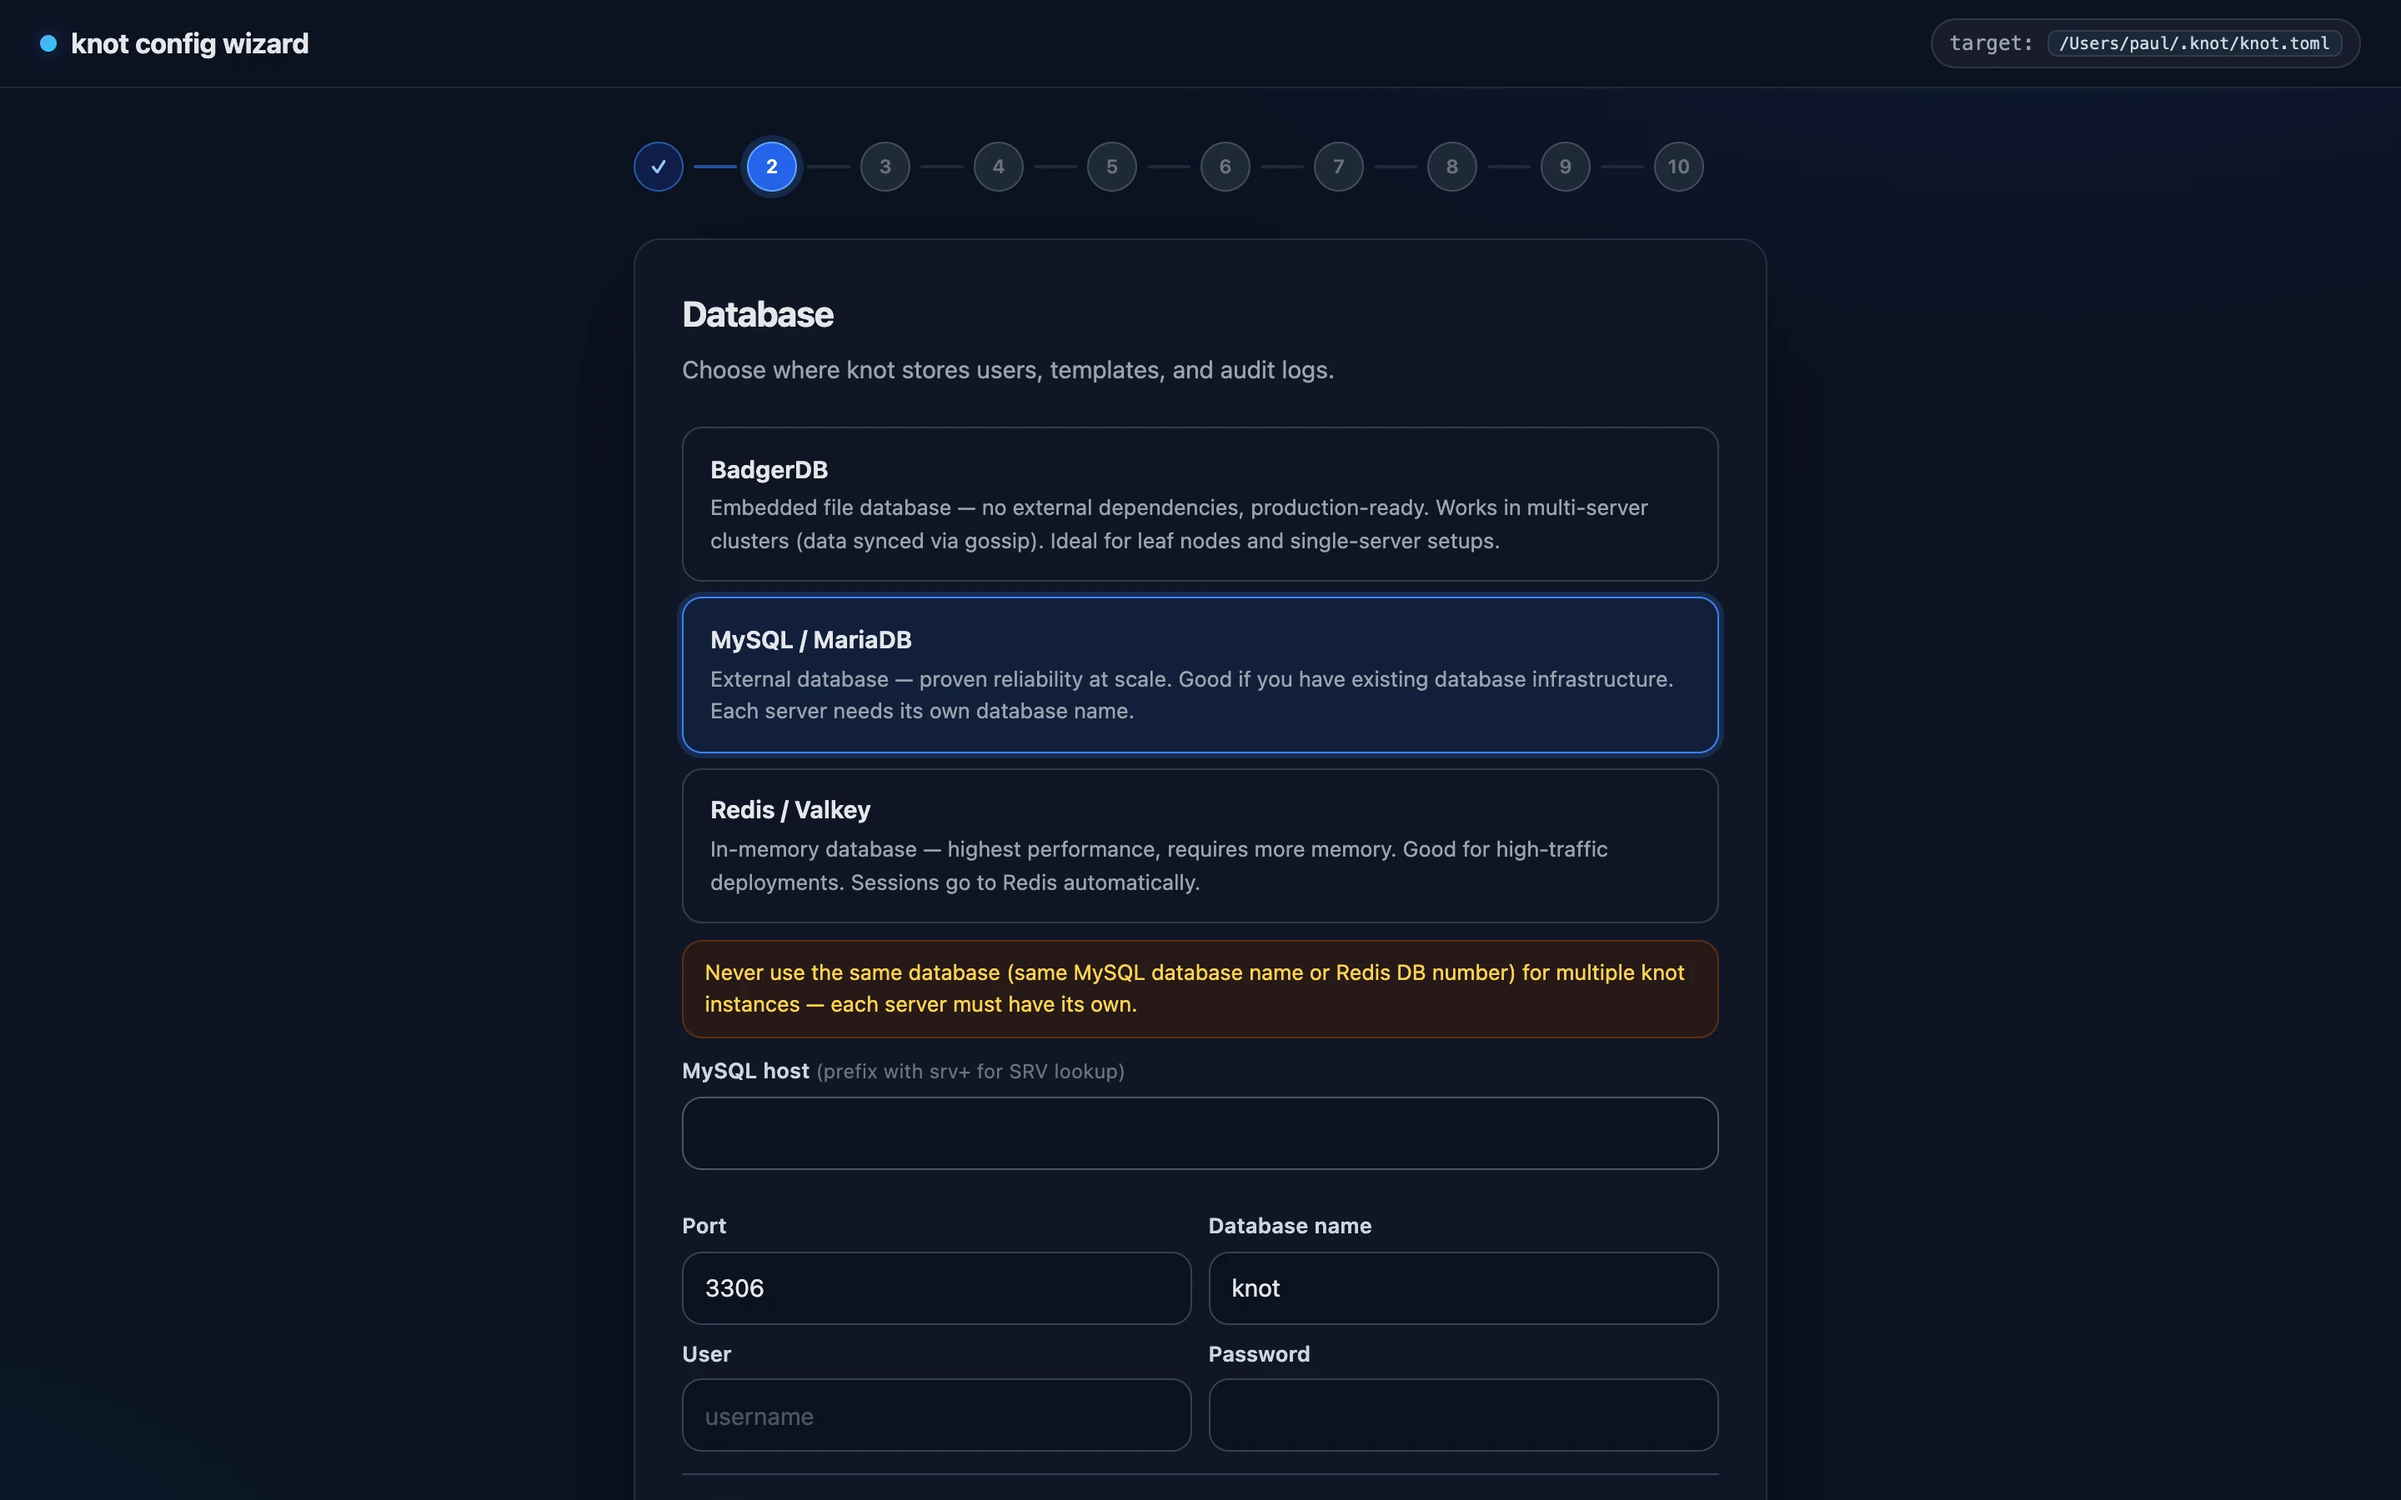
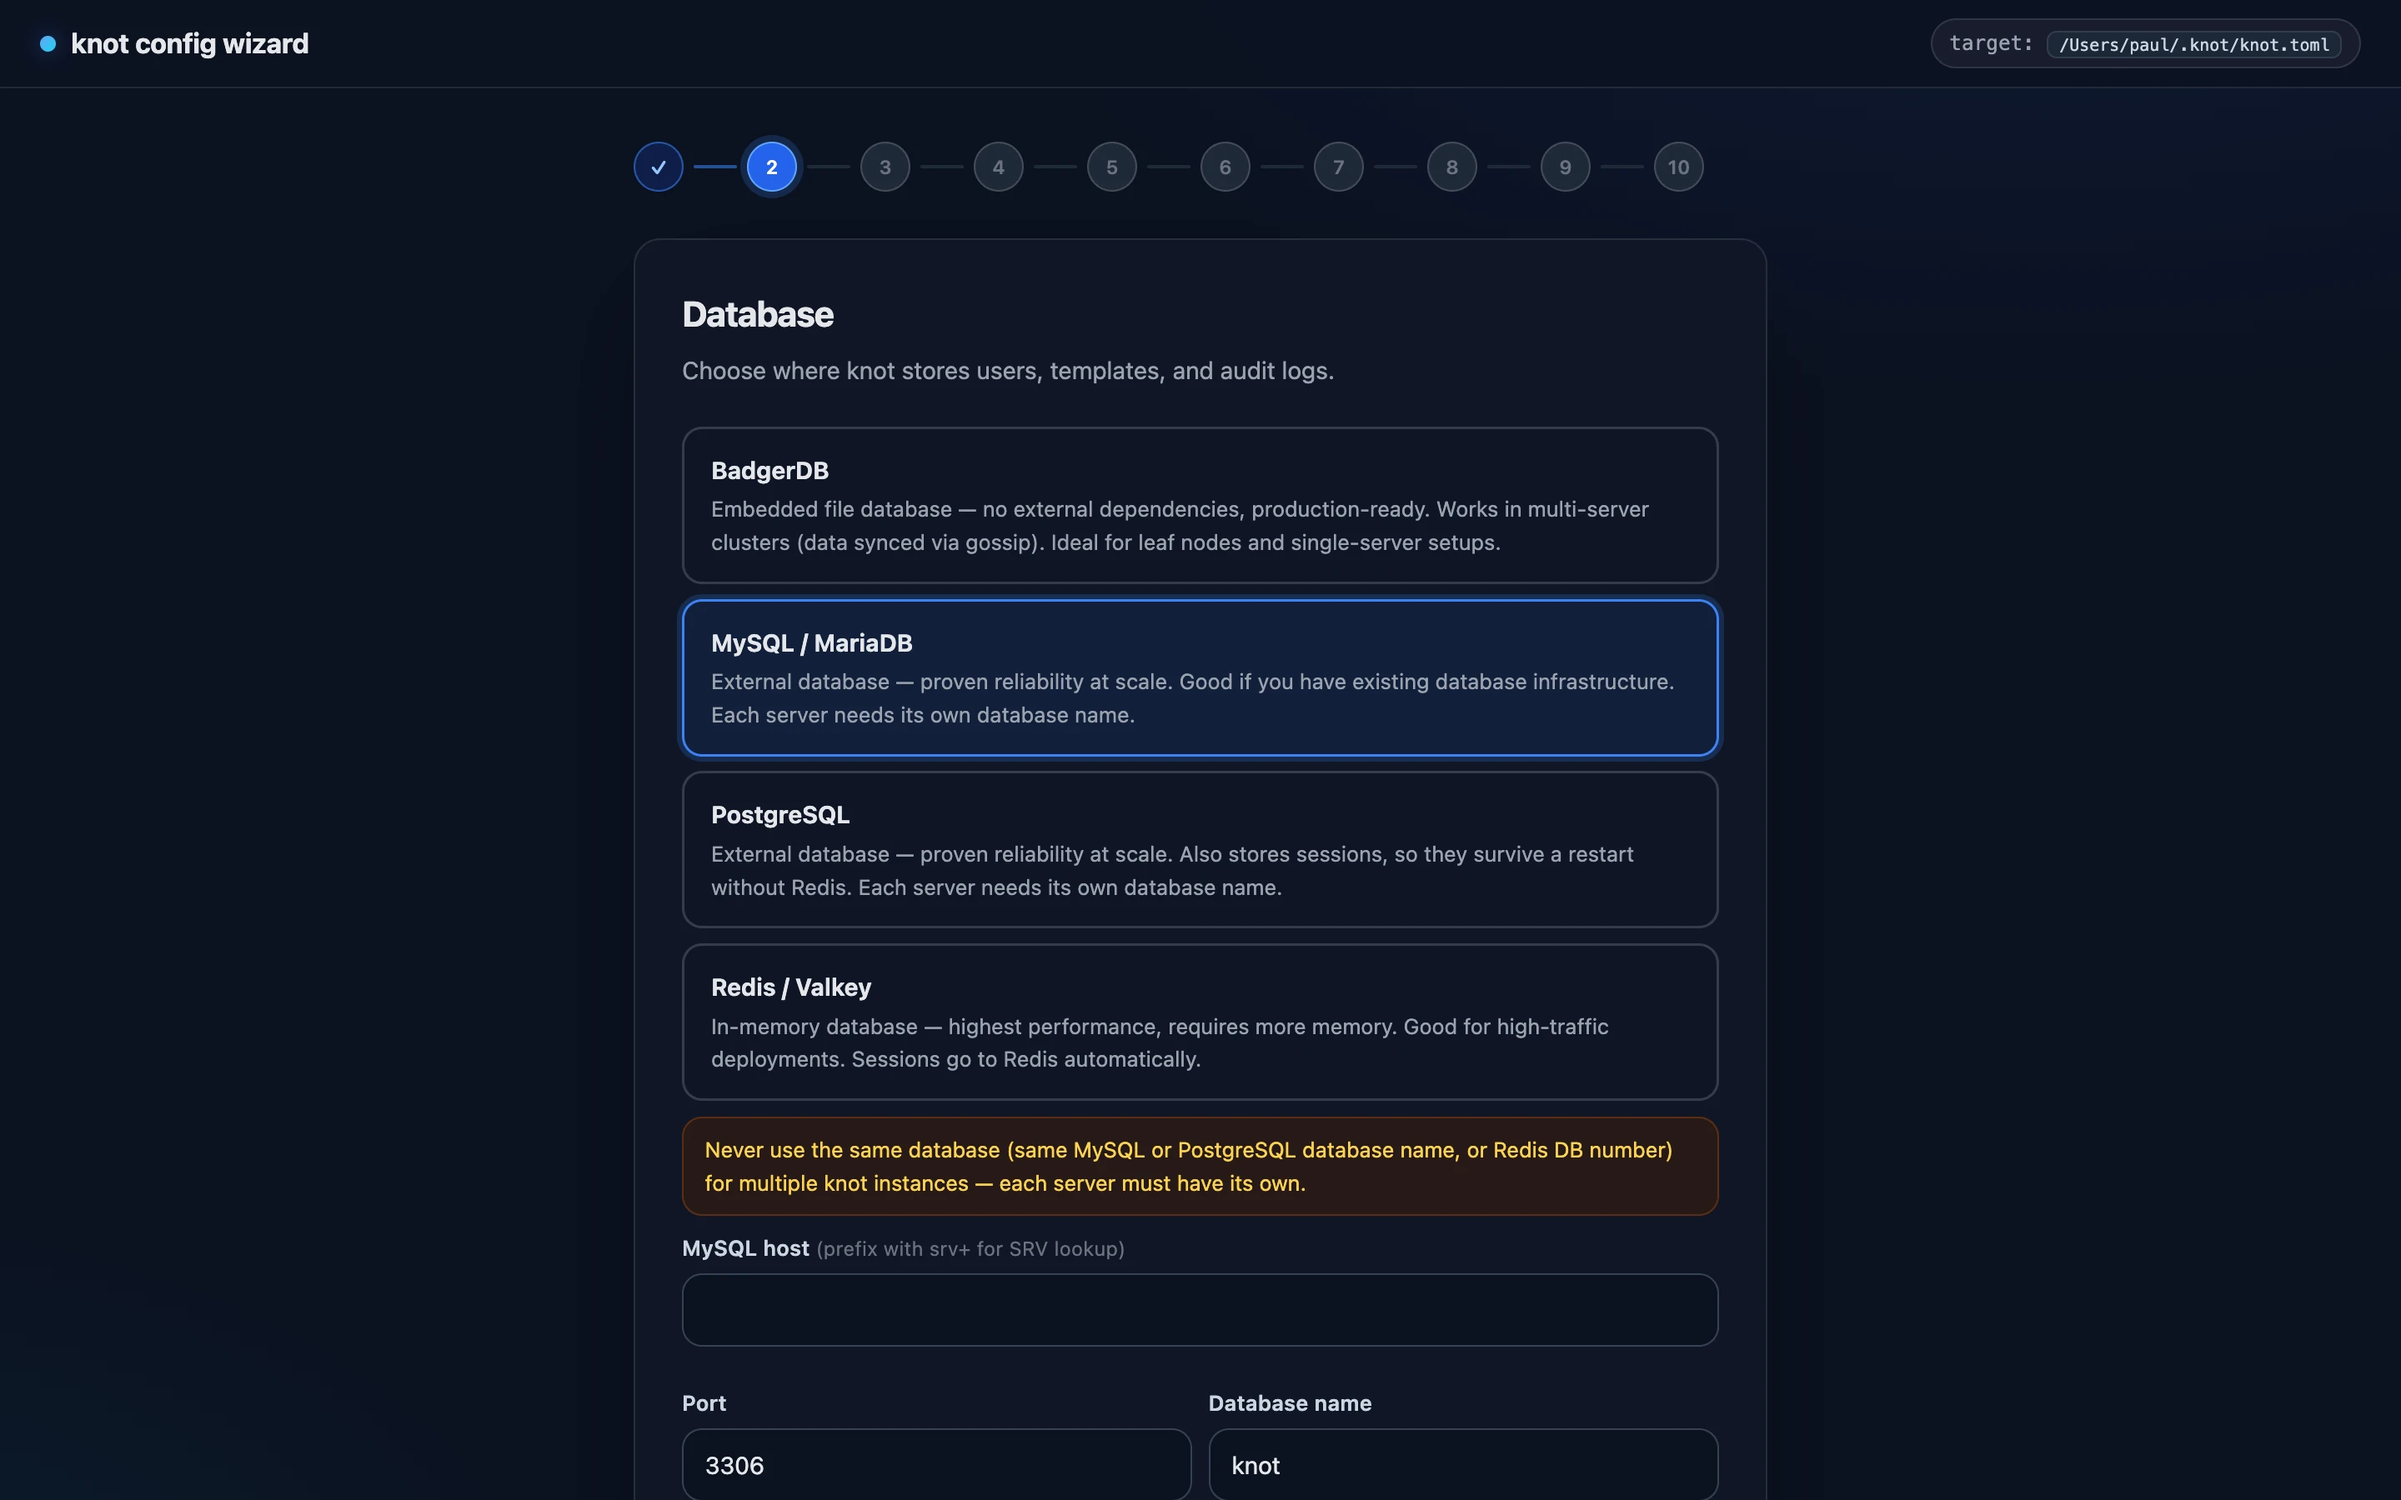
Fix wizard text

Changed region(s): [[0.2812, 0.3111, 0.7188, 0.9956]]

diff --git a/content/docs/quick-start/config-wizard.md b/content/docs/quick-start/config-wizard.md
@@ -34,14 +34,19 @@ If a config file already exists at the target path, the wizard still runs — th
 
 ## What the Wizard Covers
 
-The wizard walks through ten steps, starting with the server settings:
-
-{{< zoom-picture src="/docs/quick-start/images/config-wizard-settings.webp" caption="Wizard: Server Settings" >}}
+The wizard walks through ten steps.
 
 ### 1. Deployment Type
-Choose **Single Server**, **Cluster**, or **Leaf Node**. This sets sensible defaults for the remaining steps (storage backend, platforms, DNS).
+Choose **Single Server**, **Cluster**, or **Desktop / Leaf Mode**. This sets the defaults for the remaining steps, which you can change as you go:
+
+- **Single Server**: MySQL / MariaDB with Redis for sessions, local Docker and Podman, the system nameservers, and failed-login blocking.
+- **Cluster**: MySQL / MariaDB with Redis for sessions, Nomad on `http://127.0.0.1:4646`, custom nameservers (for Consul SRV lookups, etc.), failed-login blocking, and the cluster settings.
+- **Desktop / Leaf Mode**: BadgerDB, local Docker and Podman, the web UI on `http://127.0.0.1:3000`, the built-in DNS server answering `knot.internal`, and an optional origin server to link to.
 
 ### 2. Database
+
+{{< zoom-picture src="/docs/quick-start/images/config-wizard-settings.webp" caption="Wizard: Database" >}}
+
 Pick **BadgerDB** (embedded, no external dependencies), **MySQL / MariaDB** (external, proven at scale), **PostgreSQL** (external, stores sessions too), or **Redis / Valkey** (in-memory, highest performance). PostgreSQL keeps sessions over a server restart by itself. When the primary database is BadgerDB or MySQL, you can optionally enable **Redis for session storage** so sessions survive server restarts. When Redis is the primary database, sessions go to Redis automatically.
 
 {{< tip "warning" >}}
@@ -70,7 +75,7 @@ Enable AI/Chat (OpenAI, Anthropic, Google, Ollama) and MCP server.
 Configure external log output (VictoriaLogs, Loki, Elasticsearch or Graylog endpoint, with optional basic auth or bearer token credentials) and audit log routing/retention. The Pro wizard additionally configures space log forwarding {{< pro-badge >}}, the on-disk log spool {{< pro-badge >}} and audit anomaly detection {{< pro-badge >}} (per-rule thresholds and windows — failed logins, successes after failure bursts, blocked attempts, admin grants, bulk deletions, distinct login IPs, and more). The external logging service is the long-term log store — the internal audit store expires entries after the retention period. See [Logging Configuration](/docs/configuration/logging/).
 
 ### 10. Review
-The generated `knot.toml` is shown in an embedded TOML editor with syntax highlighting. Edit anything directly, then click **write to disk** or **copy to clipboard**.
+The generated `knot.toml` is shown in an embedded TOML editor with syntax highlighting. Edit anything directly, then click **Write to Disk** or **Copy to Clipboard**.
 
 ---
 

diff --git a/okf/knot-docs/quick-start/config-wizard.md b/okf/knot-docs/quick-start/config-wizard.md
@@ -42,14 +42,19 @@ If a config file already exists at the target path, the wizard still runs — th
 
 ## What the Wizard Covers
 
-The wizard walks through ten steps, starting with the server settings:
-
-
+The wizard walks through ten steps.
 
 ### 1. Deployment Type
-Choose **Single Server**, **Cluster**, or **Leaf Node**. This sets sensible defaults for the remaining steps (storage backend, platforms, DNS).
+Choose **Single Server**, **Cluster**, or **Desktop / Leaf Mode**. This sets the defaults for the remaining steps, which you can change as you go:
+
+- **Single Server**: MySQL / MariaDB with Redis for sessions, local Docker and Podman, the system nameservers, and failed-login blocking.
+- **Cluster**: MySQL / MariaDB with Redis for sessions, Nomad on `http://127.0.0.1:4646`, custom nameservers (for Consul SRV lookups, etc.), failed-login blocking, and the cluster settings.
+- **Desktop / Leaf Mode**: BadgerDB, local Docker and Podman, the web UI on `http://127.0.0.1:3000`, the built-in DNS server answering `knot.internal`, and an optional origin server to link to.
 
 ### 2. Database
+
+
+
 Pick **BadgerDB** (embedded, no external dependencies), **MySQL / MariaDB** (external, proven at scale), **PostgreSQL** (external, stores sessions too), or **Redis / Valkey** (in-memory, highest performance). PostgreSQL keeps sessions over a server restart by itself. When the primary database is BadgerDB or MySQL, you can optionally enable **Redis for session storage** so sessions survive server restarts. When Redis is the primary database, sessions go to Redis automatically.
 
 
@@ -78,7 +83,7 @@ Enable AI/Chat (OpenAI, Anthropic, Google, Ollama) and MCP server.
 Configure external log output (VictoriaLogs, Loki, Elasticsearch or Graylog endpoint, with optional basic auth or bearer token credentials) and audit log routing/retention. The Pro wizard additionally configures space log forwarding , the on-disk log spool  and audit anomaly detection  (per-rule thresholds and windows — failed logins, successes after failure bursts, blocked attempts, admin grants, bulk deletions, distinct login IPs, and more). The external logging service is the long-term log store — the internal audit store expires entries after the retention period. See [Logging Configuration](../configuration/logging.md).
 
 ### 10. Review
-The generated `knot.toml` is shown in an embedded TOML editor with syntax highlighting. Edit anything directly, then click **write to disk** or **copy to clipboard**.
+The generated `knot.toml` is shown in an embedded TOML editor with syntax highlighting. Edit anything directly, then click **Write to Disk** or **Copy to Clipboard**.
 
 ---
 
